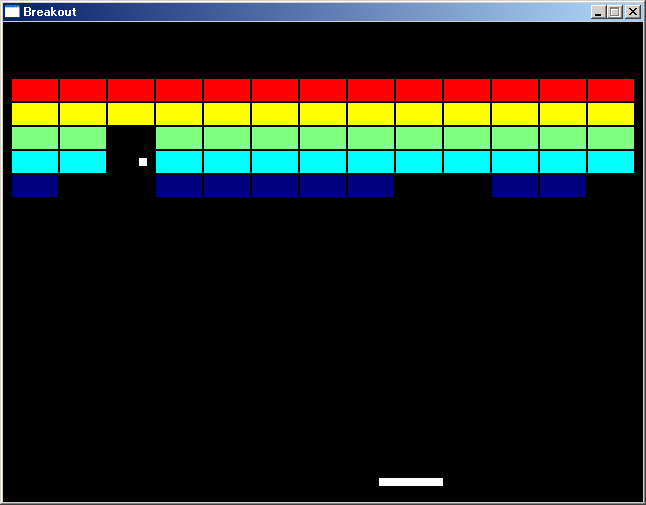
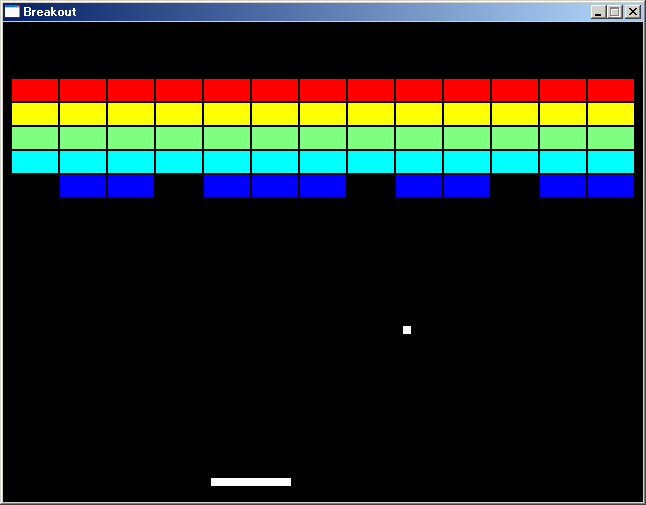
examples_mingw/sdl2 chg

diff --git a/examples_mingw/sdl2/README.md b/examples_mingw/sdl2/README.md
@@ -93,6 +93,7 @@
 
 ## 履歴
 - 2014-10-16 v1.00 初版
+- 2014-10-17 v1.01 一部パラメータ調整
 
 
-(2014-10-16)
+(2014-10-17)
